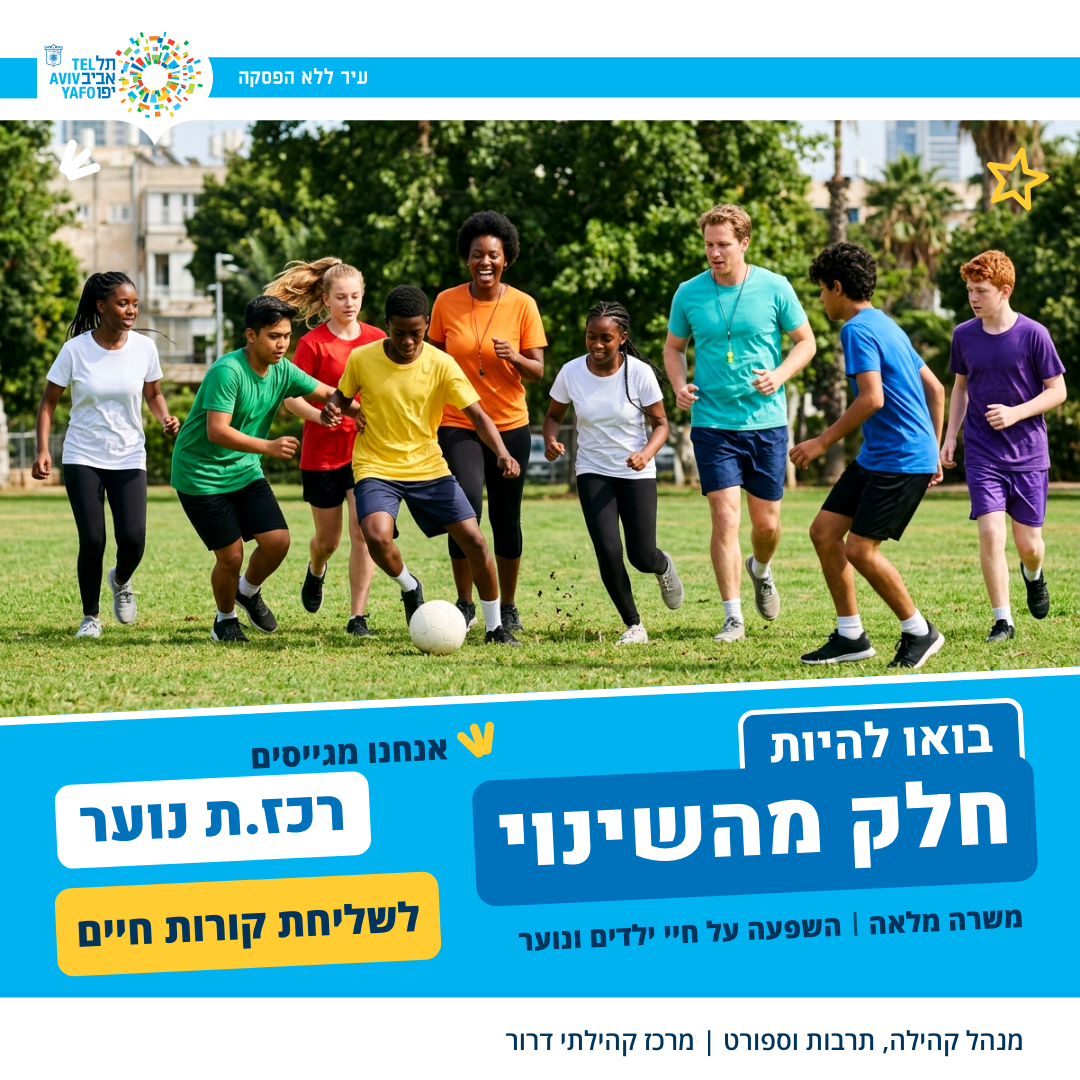
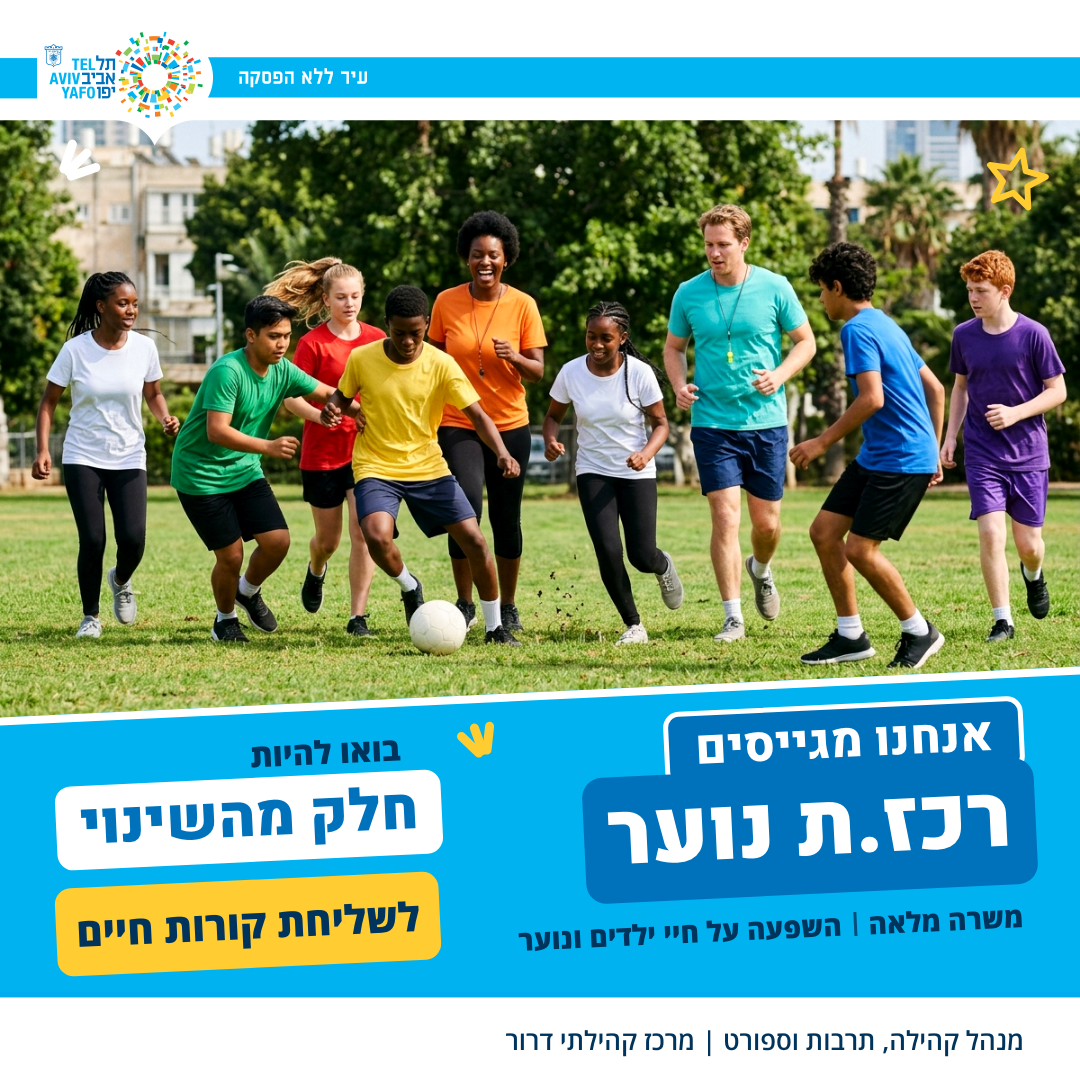
Role as the main headline; ad texts in two versions (10.10)

Changed region(s): [[0.0611, 0.6417, 0.9472, 0.8556]]

diff --git a/index.html b/index.html
@@ -132,44 +132,102 @@ footer{padding-block:20px 96px;color:var(--ink-muted);font-size:14px}
[1 lines of base64/hex data omitted]
   <span class="lock-name"><span class="lock-he">גרינר דיגיטל מרקטינג</span><bdi class="lock-lt" dir="ltr" lang="en">Greener Digital Marketing</bdi></span></div>
   <h1>באנרים לגיוס למרכז דרור - שלוש אפשרויות</h1>
-  <p class="intro">שלושה באנרים בסגנון החדש. לצד כל באנר מופיע הטקסט שילווה אותו במודעה.</p>
+  <p class="intro">שלושה באנרים בסגנון החדש. לצד כל באנר מופיעים הטקסטים שילוו אותו במודעה, בשתי גרסאות.</p>
 </header>
 <main>
 <article class="bn">
   <div><a class="img" href="7-band-football.png" target="_blank" rel="noopener"><img src="7-band-football.png" width="1080" height="1080" alt="אפשרות 1: באנר גיוס של מרכז קהילתי דרור, כדורגל"></a><p class="hint">לחיצה על הבאנר פותחת אותו בגודל מלא.</p></div>
   <div class="otext"><p class="label">אפשרות 1</p><h2>כדורגל</h2>
-    <h3>הטקסט הראשי במודעה</h3><p class="adtext">במרכז קהילתי דרור אנחנו מגייסים רכז.ת נוער, במשרה מלאה.
-פרטי המשרה ושליחת קורות חיים בעמוד המשרות של המרכז.
+    <h3>כותרת, גרסה 1</h3><p class="adtext">אנחנו מגייסים למשרת רכז.ת נוער</p>
+    <h3>כותרת, גרסה 2</h3><p class="adtext">עבודה עם משמעות אמיתית</p>
+    <h3>הטקסט הראשי במודעה, גרסה 1</h3><p class="adtext">אנחנו מגייסים רכז.ת נוער למשרה מלאה במרכז קהילתי דרור.
+בואו להיות דמות משמעותית בחייהם של בני נוער וחלק מרשת עירונית מקצועית ומשפיעה.
+קחו חלק בהובלת פעילות הנוער במרכז כחלק מרשת מנ&quot;ש (מרחבי נוער שכונתיים) העירונית, פיתוח קבוצות, יוזמות ותוכניות מנהיגות, וליווי צוות ההדרכה.
 
-להיות דמות משמעותית בחייהם של בני נוער, ולהיות חלק מרשת עירונית מקצועית.
-התפקיד: הובלת פעילות הנוער במרכז כחלק מרשת מנ&quot;ש (מרחבי נוער שכונתיים) העירונית, פיתוח קבוצות, יוזמות ותוכניות מנהיגות, וליווי צוות ההדרכה.
 המרכז פועל עם קהילת מבקשי המקלט וחסרי המעמד בדרום תל־אביב-יפו.
 העבודה כוללת שעות אחר הצהריים והערב.
-נדרש ניסיון משמעותי בעבודה עם בני נוער.</p>
-    <h3>כותרת</h3><p class="adtext">רכז.ת נוער, משרה מלאה</p>
+נדרש ניסיון משמעותי בעבודה עם בני נוער.
+לפרטים נוספים ושליחת קורות חיים 👇</p>
+    <h3>הטקסט הראשי במודעה, גרסה 2</h3><p class="adtext">לראות את הפוטנציאל של בני נוער, וללוות אותם בדרך לגיבוש זהות, תחושת שייכות ותמונת עתיד.
+אם העבודה עם בני נוער היא האהבה שלכם - המקום שלכם איתנו, במרכז קהילתי דרור.
+אנחנו מגייסים למשרה מלאה רכז.ת נוער להובלת פעילות הנוער במרכז בשעות אחר הצהריים והערב, שפועל עם קהילת מבקשי המקלט וחסרי המעמד בדרום תל־אביב-יפו.
+
+למה כדאי לכם להצטרף?
+🟡 להיות דמות משמעותית בחייהם של בני נוער.
+🟡 להוביל עשייה חינוכית ייחודית: קבוצות, יוזמות ותוכניות מנהיגות.
+🟡 להיות חלק מרשת מנ&quot;ש (מרחבי נוער שכונתיים), רשת עירונית מקצועית ומשפיעה.
+🟡 לעבוד בצוות מקצועי ומגובש.
+
+דרישות לתפקיד:
+🔷 ניסיון משמעותי בעבודה עם בני נוער - חובה.
+🔷 ניסיון בהובלת קבוצות או צוותים, יתרון.
+🔷 יכולת יצירת קשר, הכלה והצבת גבולות.
+🔷 עצמאות, יוזמה, יצירתיות ומחויבות חברתית.
+
+לפרטים נוספים ושליחת קורות חיים 👇</p>
     <h3>תיאור</h3><p class="adtext">מרכז קהילתי דרור, דרום תל־אביב-יפו</p></div>
 </article><article class="bn">
   <div><a class="img" href="8-tabs-kite.png" target="_blank" rel="noopener"><img src="8-tabs-kite.png" width="1080" height="1080" alt="אפשרות 2: באנר גיוס של מרכז קהילתי דרור, עפיפון"></a><p class="hint">לחיצה על הבאנר פותחת אותו בגודל מלא.</p></div>
   <div class="otext"><p class="label">אפשרות 2</p><h2>עפיפון</h2>
-    <h3>הטקסט הראשי במודעה</h3><p class="adtext">במרכז קהילתי דרור אנחנו מגייסים רכז.ת ילדים, עם יוזמה, יצירתיות, יכולת הובלה ואהבה גדולה לחינוך.
-פרטי המשרה ושליחת קורות חיים בעמוד המשרות של המרכז.
+    <h3>כותרת, גרסה 1</h3><p class="adtext">אנחנו מגייסים למשרת רכז.ת ילדים</p>
+    <h3>כותרת, גרסה 2</h3><p class="adtext">להוביל עשייה חינוכית משמעותית לילדים</p>
+    <h3>הטקסט הראשי במודעה, גרסה 1</h3><p class="adtext">אנחנו מגייסים רכז.ת ילדים, עם יוזמה, יצירתיות, יכולת הובלה ואהבה גדולה לחינוך לעבודה במרכז קהילתי דרור.
 
-התפקיד: תכנון והובלה של פעילות חינוכית בלתי פורמלית לילדים, ליווי מקצועי של צוות ההדרכה, וקשר עם ילדים, הורים וגורמים בקהילה.
+התפקיד כולל תכנון והובלה של פעילות חינוכית בלתי פורמלית לילדים, ליווי מקצועי של צוות ההדרכה, וקשר עם ילדים, הורים וגורמים בקהילה.
 המרכז פועל עם קהילת מבקשי המקלט וחסרי המעמד בדרום תל־אביב-יפו.
-משרה מלאה, הכוללת עבודה בשעות אחר הצהריים.
-נדרש ניסיון בעבודה חינוכית עם ילדים.</p>
-    <h3>כותרת</h3><p class="adtext">רכז.ת ילדים, משרה מלאה</p>
+אנחנו מגייסים למשרה מלאה, הכוללת עבודה בשעות אחר הצהריים.
+נדרש ניסיון בעבודה חינוכית עם ילדים.
+לפרטים נוספים ושליחת קורות חיים 👇</p>
+    <h3>הטקסט הראשי במודעה, גרסה 2</h3><p class="adtext">אנחנו צוות שמאמין בכוחו של חינוך לשנות מציאות.
+אם העבודה החינוכית עם ילדים היא המקצוע שלכם, ויש בכם יוזמה, יצירתיות ויכולת הובלה, המקום שלכם איתנו - במרכז קהילתי דרור.
+
+אנחנו מגייסים רכז.ת ילדים למשרה מלאה הכוללת עבודה בשעות אחר הצהריים, לתכנון ולהובלה של פעילות חינוכית בלתי פורמלית לילדים.
+המרכז פועל עם קהילת מבקשי המקלט וחסרי המעמד בדרום תל־אביב-יפו.
+
+למה כדאי לכם להצטרף?
+🟡 להוביל עשייה חינוכית משמעותית עם ילדים.
+🟡 לפתח מענים חינוכיים מותאמים לצורכי הילדים.
+🟡 להוביל פרויקטים, אירועים ופעילויות קהילתיות.
+🟡 להיות חלק מצוות מקצועי ומגובש.
+
+דרישות לתפקיד:
+🔷 ניסיון בעבודה חינוכית עם ילדים - חובה.
+🔷 ניסיון בריכוז פעילות או בהובלת צוות, יתרון.
+🔷 יכולת ארגון, יוזמה ועבודה עצמאית.
+🔷 רגישות תרבותית, יחסי אנוש מצוינים ותפיסה חברתית.
+
+לפרטים נוספים ושליחת קורות חיים 👇</p>
     <h3>תיאור</h3><p class="adtext">מרכז קהילתי דרור, דרום תל־אביב-יפו</p></div>
 </article><article class="bn">
   <div><a class="img" href="9-frame-clay.png" target="_blank" rel="noopener"><img src="9-frame-clay.png" width="1080" height="1080" alt="אפשרות 3: באנר גיוס של מרכז קהילתי דרור, פיסול בחימר"></a><p class="hint">לחיצה על הבאנר פותחת אותו בגודל מלא.</p></div>
   <div class="otext"><p class="label">אפשרות 3</p><h2>פיסול בחימר</h2>
-    <h3>הטקסט הראשי במודעה</h3><p class="adtext">במרכז קהילתי דרור אנחנו מגייסים צוות: רכז.ת נוער ורכז.ת ילדים במשרה מלאה, ומדריכים.ות לילדים ונוער במשרה חלקית.
-פרטי המשרות ושליחת קורות חיים בעמוד המשרות של המרכז.
+    <h3>כותרת, גרסה 1</h3><p class="adtext">אנחנו מגייסים למשרות רכז.ת נוער ורכז.ת ילדים</p>
+    <h3>כותרת, גרסה 2</h3><p class="adtext">עבודה משמעותית עם השפעה על חיי ילדים ונוער</p>
+    <h3>הטקסט הראשי במודעה, גרסה 1</h3><p class="adtext">אנחנו במרכז קהילתי דרור מגייסים לצוות רכז.ת נוער ורכז.ת ילדים במשרה מלאה, ומדריכים.ות לילדים ונוער במשרה חלקית.
 
-עבודה חינוכית עם ילדים ובני נוער, בשעות אחר הצהריים ובחלק מהתפקידים גם בערב, בצוות מקצועי ומגובש.
+עבודה חינוכית עם ילדים ובני נוער, בשעות אחר הצהריים ובחלק מהתפקידים גם בערב - הצטרפו לצוות מקצועי ומגובש.
 המרכז פועל עם קהילת מבקשי המקלט וחסרי המעמד בדרום תל־אביב-יפו.
-המשרה החלקית מתאימה גם לסטודנטים.ות.</p>
-    <h3>כותרת</h3><p class="adtext">מגייסים רכזים.ות ומדריכים.ות</p>
+המשרה החלקית מתאימה גם לסטודנטים.ות.
+
+לפרטים נוספים ושליחת קורות חיים 👇</p>
+    <h3>הטקסט הראשי במודעה, גרסה 2</h3><p class="adtext">אם העבודה החינוכית עם ילדים ובני נוער היא המקצוע שלכם, המקום שלכם איתנו - במרכז קהילתי דרור.
+אנחנו מגייסים רכז.ת נוער ורכז.ת ילדים, במשרה מלאה, להובלת הפעילות החינוכית במרכז.
+המרכז פועל עם קהילת מבקשי המקלט וחסרי המעמד בדרום תל־אביב-יפו.
+העבודה בשעות אחר הצהריים, ובתפקיד רכז.ת נוער גם בערב.
+
+למה כדאי לכם להצטרף?
+🟡 עבודה משמעותית, עם השפעה על חיי ילדים ונוער.
+🟡 צוות מקצועי ומגובש.
+🟡 הובלה של פעילות חינוכית, פרויקטים ויוזמות.
+🟡 הובלה וליווי של צוות ההדרכה.
+
+דרישות לתפקיד:
+🔷 לרכז.ת נוער: ניסיון משמעותי בעבודה עם בני נוער - חובה.
+🔷 לרכז.ת ילדים: ניסיון בעבודה חינוכית עם ילדים - חובה.
+🔷 ניסיון בהובלת צוות, יתרון.
+🔷 יוזמה ועבודה עצמאית.
+
+לפרטים נוספים ושליחת קורות חיים 👇</p>
     <h3>תיאור</h3><p class="adtext">מרכז קהילתי דרור, דרום תל־אביב-יפו</p></div>
 </article>
 <section class="notes"><h2>חשוב לדעת על הבאנרים</h2><ul><li>הבאנרים מוצגים בגודל ריבועי, 1080 על 1080. גדלים נוספים, לסטורי ולרוחב, יוכנו אחרי בחירת כיוון.</li><li>התמונות נוצרו ב-AI להמחשה, והאנשים בהן בדויים.</li><li>הניסוחים נשענים על נוסחי המשרות ששלחתם ועל הסיכום מהשיחה שלנו.</li><li>הבאנרים והטקסטים ממתינים לאישור שלכם.</li></ul></section>
